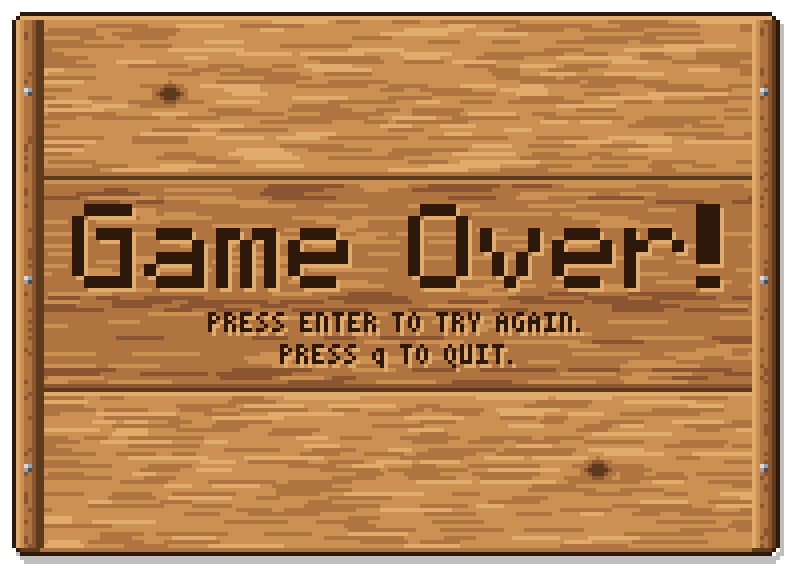
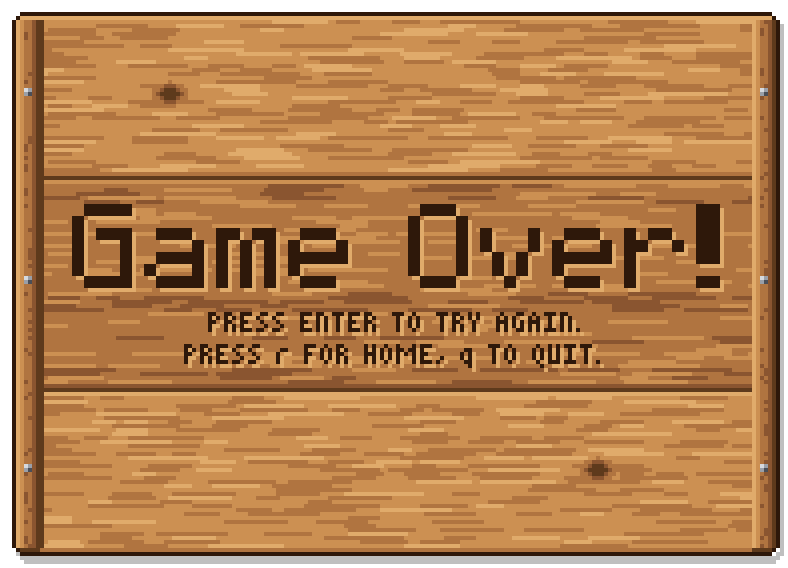
Testing mouse capabilities

Changed region(s): [[0.2132, 0.5986, 0.7614, 0.6585]]

diff --git a/main.py b/main.py
@@ -172,6 +172,9 @@ class Player(pygame.sprite.Sprite):
         self.gem_count = 0
 
     def move(self):
+
+        self.rect.x = pygame.mouse.get_pos()[0]
+        """
         keys = pygame.key.get_pressed()
         if (keys[pygame.K_a] or keys[pygame.K_LEFT]) and self.rect.left > 0:
             self.rect.x -= self.speed
@@ -181,6 +184,7 @@ class Player(pygame.sprite.Sprite):
             self.image = player_image_right 
         else:
             self.image = player_image_default 
+        """
 
     def jump(self):
         keys = pygame.key.get_pressed()
@@ -256,6 +260,7 @@ class Meteor(pygame.sprite.Sprite):
         self.transformed = False
         self.gem = False
         self.special_gem = False
+        self.hit = False
 
 class paused(pygame.sprite.Sprite):
     def __init__(self, x, y):
@@ -304,7 +309,7 @@ def draw_gem_count_in_words(screen, gem_count):
 def draw_scores_in_words(screen, score, high_score):
     font = pygame.font.SysFont(None, 36)
     scores_text = font.render(f"High Score: {high_score} Score: {score}", True, WHITE)
-    screen.blit(scores_text, ((SCREEN_WIDTH / 2), 0))
+    screen.blit(scores_text, ((SCREEN_WIDTH / 2), 10))
 
 
 def starting_screen():
@@ -344,18 +349,35 @@ game = True
 mixer.music.pause()
 while run:
     for event in pygame.event.get():
+        if event.type == pygame.MOUSEBUTTONDOWN:
+            if pygame.mouse.get_visible():
+                pygame.mouse.set_visible(False)
+            elif not pygame.mouse.get_visible():
+                if not pause_game:
+                    bullet = Bullet(player.rect.centerx, player.rect.top)
+                    all_sprites.add(bullet)
+                    bullets.add(bullet)
+
+
+
         if event.type == pygame.KEYDOWN:
             if event.key == pygame.K_SPACE:
                 pause_game = not pause_game
-            elif event.key ==  pygame.K_q:
+            elif event.key == pygame.K_q:
                 run = False
             elif event.key == pygame.K_s or event.key == pygame.K_DOWN:
                 if not pause_game:
                     bullet = Bullet(player.rect.centerx, player.rect.top)
                     all_sprites.add(bullet)
                     bullets.add(bullet)
-            elif event.key ==  pygame.K_q:
-                run = False             
+            elif event.key ==  pygame.K_r:
+                time.sleep(0.3)
+                reset()
+                mixer.music.pause()
+                pause_game = False
+                starting_screen = True
+                game = True
+                you_win = False
             elif event.key == pygame.K_RETURN and starting_screen == True:
                     starting_screen = False 
             elif event.key == pygame.K_RETURN and (game == False or you_win == True):
@@ -375,6 +397,11 @@ while run:
         pygame.display.flip()
     elif you_win:
         time.sleep(0.3)
+        avg_lives = 1
+        lives_list = [1,1]
+        lost_gem_count = 0
+        lost_bullet_count = 0
+        hit_bullet_count = 0
         screen.blit(background_image, (0,0))
         screen.blit(you_win_two_options, (0,0))
         pygame.display.flip()
@@ -389,7 +416,6 @@ while run:
 
     elif game == True:
         if not pause_game:
-            score = 0
             mixer.music.unpause()
             # 1. Logic Updates
             lives_list.append(player.lives)
@@ -441,10 +467,8 @@ while run:
                 music = True
 
             # 3. Drawing
-            avg_lives = sum(lives_list) / len(lives_list)
-            avg_lives = int(avg_lives)
-
-            score = ((hit_bullet_count - lost_bullet_count) * avg_lives) - lost_gem_count
+            avg_lives = round(sum(lives_list) / len(lives_list))
+            score = ((hit_bullet_count) * avg_lives) - lost_gem_count
 
             if score >= int(high_score):
                 high_score = score
@@ -463,6 +487,12 @@ while run:
         clock.tick(60)
 
     elif game == False:
+        avg_lives = 1
+        lives_list = [1,1]
+        lost_gem_count = 0
+        lost_bullet_count = 0
+        hit_bullet_count = 0
+        score = 0
         player.image = player_image_default
         pygame.display.flip()
         time.sleep(0.3)
